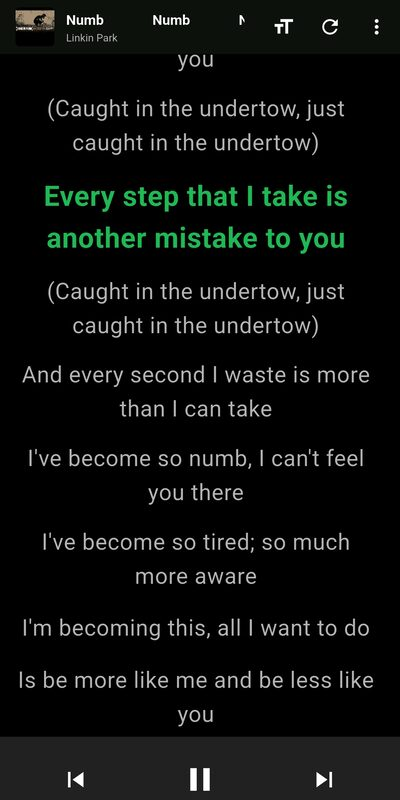
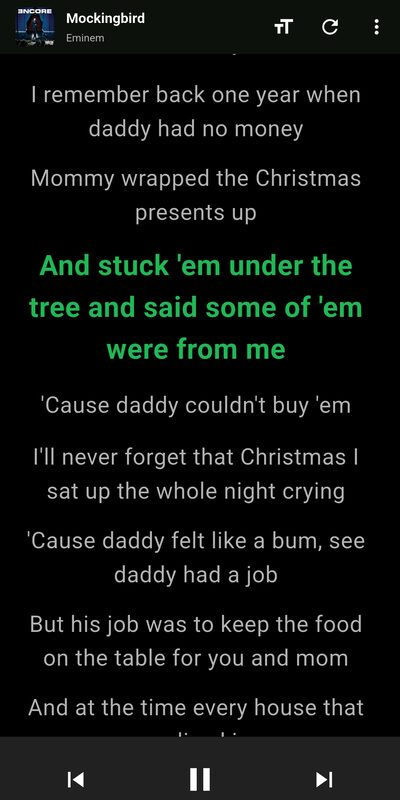
[chore] Screenshot rifatti e video di presentazione nel README
Gli scatti vengono dalla build con il titolo corretto, quindi non mostrano
piu' il nome del brano affiancato. Il video sta fra gli allegati della
release e non nel repo: il README ne mostra solo il fotogramma di apertura,
che ci linka sopra.

diff --git a/README.md b/README.md
@@ -16,6 +16,10 @@ Android only. Flutter 3.47, Dart 3.9.
 
 ## What it looks like
 
+[![Watch the tour](docs/screenshots/video-poster.jpg)](https://github.com/Ciucci01/car-lyrics/releases/download/v1.1.1/car-lyrics-1.1.1.mp4)
+
+*A short tour — click to download and play.*
+
 | Following the song | Text size | Lyrics source |
 | --- | --- | --- |
 | ![The current line highlighted, kept in the top quarter of the screen](docs/screenshots/lyrics.jpg) | ![The four text sizes in the AppBar menu](docs/screenshots/text-size.jpg) | ![The dialog for the optional proxy address](docs/screenshots/lyrics-source.jpg) |
